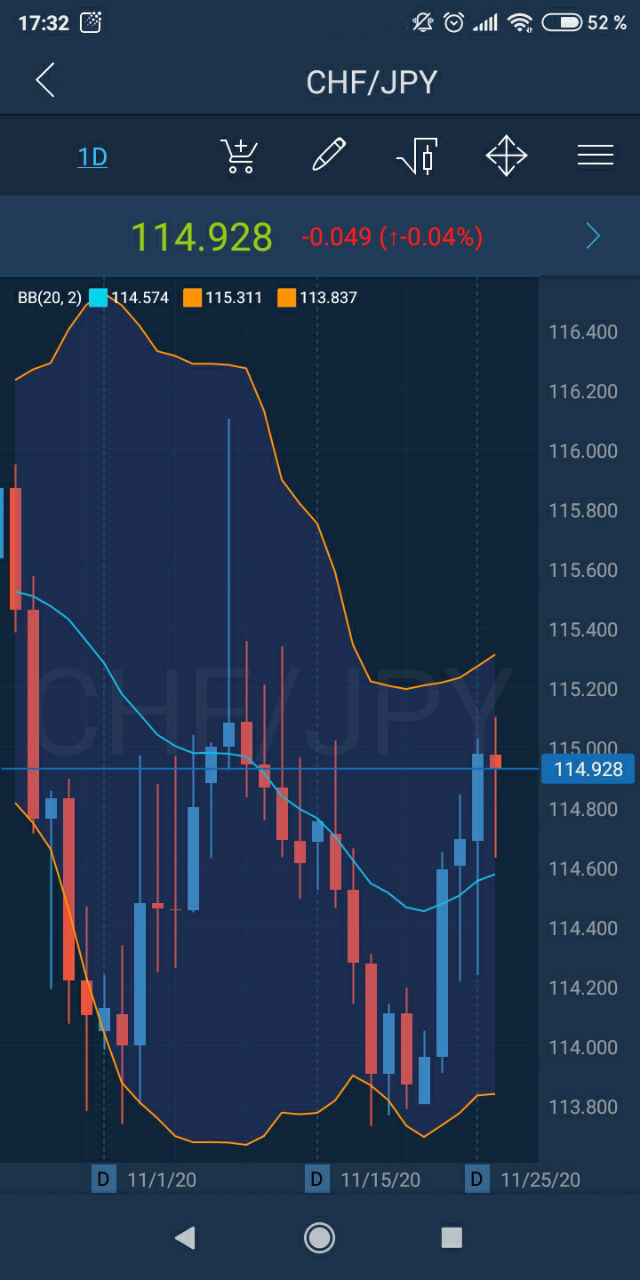
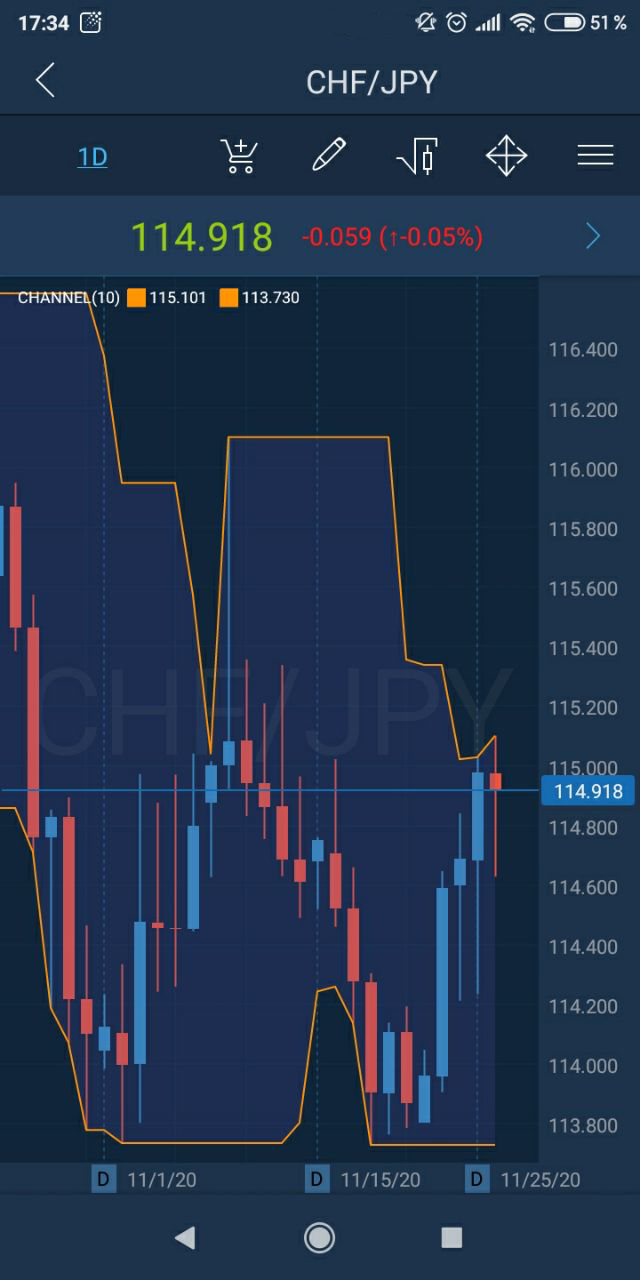
GitBook: [master] 3 pages and 2 assets modified

diff --git a/mobile-applications/phone/android/technical-indicators/channels/price-channel.md b/mobile-applications/phone/android/technical-indicators/channels/price-channel.md
@@ -1,0 +1,42 @@
+# Price channel
+
+
+
+The Price channel indicator is a trend indicator based on a simple and effective rule: in an uptrend, price forms higher highs, and in a downtrend, lower lows.
+
+The Price channel indicator is one of the most effective trend indicators. This is partly due to the mechanics of the indicator, which makes it impossible to miss a trend move. Consistently using price channels to find an entry point at the start of a trend ensures that you don't miss the trend.
+
+A price channel is a pair of parallel trend lines that form a chart pattern for a stock or commodity. Channels can be horizontal, ascending, or descending. When prices pass and stay through a trend line representing support or resistance, the trend is considered broken and a "breakout" occurs.
+
+The Price Channel indicator lines are support and resistance levels that vary with the price. A sell signal is generated when the price reaches the upper boundary and a buy signal - when the price reaches the lower one.
+
+When setting up the indicator, it is important to select the correct period of the price channel, it should closely match the used timeframe. By default, the period value is 10. Occasionally two Price channel indicators with different periods are set on the chart at once. In this case, buy signals are the breakaway of the support line with a shorter period from the line with a longer period. Conversely, a sell signal is a breakaway of the resistance line with a shorter period from a similar line with a longer period. For convenience, the color of the indicator lines can be changed so that they differ.
+
+If the parameter is selected successfully, the channel will correspond to the state of market equilibrium, and all price outputs beyond its limit should be accompanied by a price return. About 5% of prices should go outside the lines, 95% - inside.
+
+**Price channel breakout**
+
+The breakout of trading channel boundaries can be an important signal for trading. A breakout implies a subsequent price movement in its direction. The breakout reliability can be assessed by the following factors:
+
+* Trading channel duration: the longer it is, the larger the breakout in the future can be;
+* Channel width: breakouts of narrow channels tend to provide particularly reliable trading signals;
+* Breakout confirmation: the presence of the fundamental reasons and supporting purchases \(sales\) strengthens the trend.
+
+All the forces of supply and demand are represented by price. The predominance of one force creates trend direction. Trend channels occur in all time frames and in every asset class, like futures, stocks, mutual funds, etc., and are useful for trading or investing. 
+
+### Calculation
+
+The Price Channel calculations are simple:
+
+* The upper band \(line\) of the channel is constructed as the highest high over a specified period of time \(the specified number of price bars\);
+*  The lower band \(line\) of the channel is constructed as the lowest low over a specified period of time;
+*  The middle line is constructed as the average of the highest high and the lowest low.
+
+### Main parameters
+
+Period of price channel – allows setting the number of periods for which price highs and lows will be determined.
+
+The indicator looks as follows on the chart:
+
+![](../../../../../.gitbook/assets/1%20%282%29.jpg)
+

diff --git a/SUMMARY.md b/SUMMARY.md
@@ -193,6 +193,7 @@
       * [Technical indicators](mobile-applications/phone/android/technical-indicators/README.md)
         * [Channels](mobile-applications/phone/android/technical-indicators/channels/README.md)
           * [BB \(Bollinger bands\)](mobile-applications/phone/android/technical-indicators/channels/bb-bollinger-bands.md)
+          * [Price channel](mobile-applications/phone/android/technical-indicators/channels/price-channel.md)
       * [Order entry](mobile-applications/phone/android/order-entry.md)
       * [Orders](mobile-applications/phone/android/orders.md)
       * [Trading ideas](mobile-applications/phone/android/trading-ideas.md)

diff --git a/mobile-applications/phone/android/technical-indicators/channels/bb-bollinger-bands.md b/mobile-applications/phone/android/technical-indicators/channels/bb-bollinger-bands.md
@@ -55,7 +55,7 @@ It is recommended to use 20-period Simple Moving Average as the middle line, and
 
 The indicator looks as follows on the chart:
 
-![](../../../../../.gitbook/assets/1%20%282%29.jpg)
+![](../../../../../.gitbook/assets/1%20%283%29.jpg)
 
 
 
